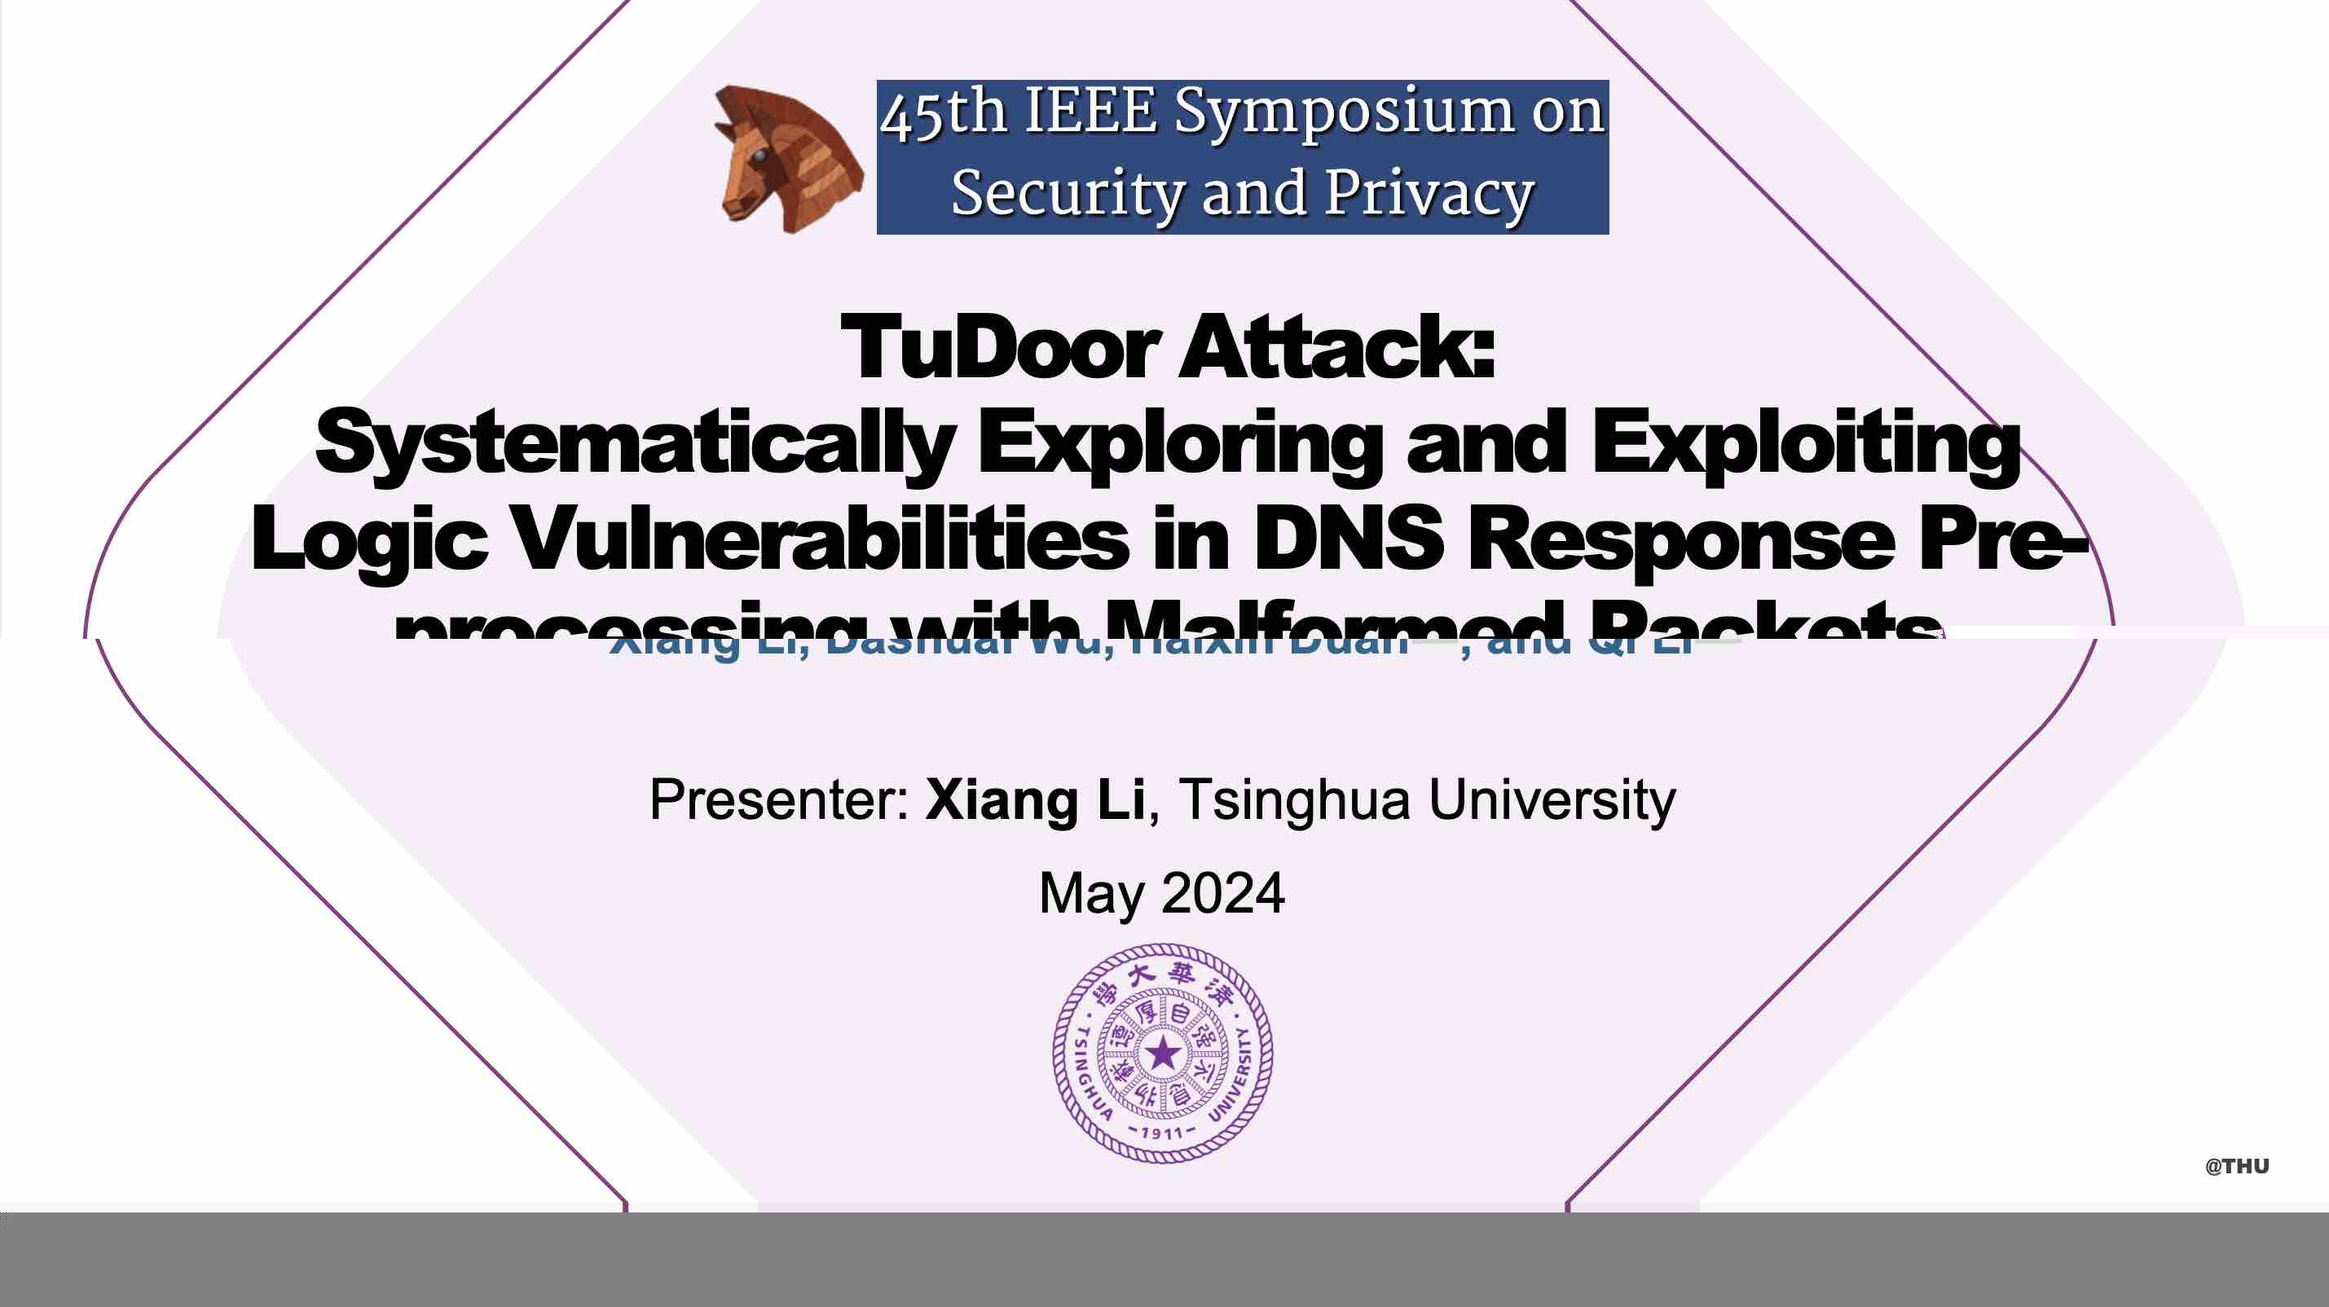
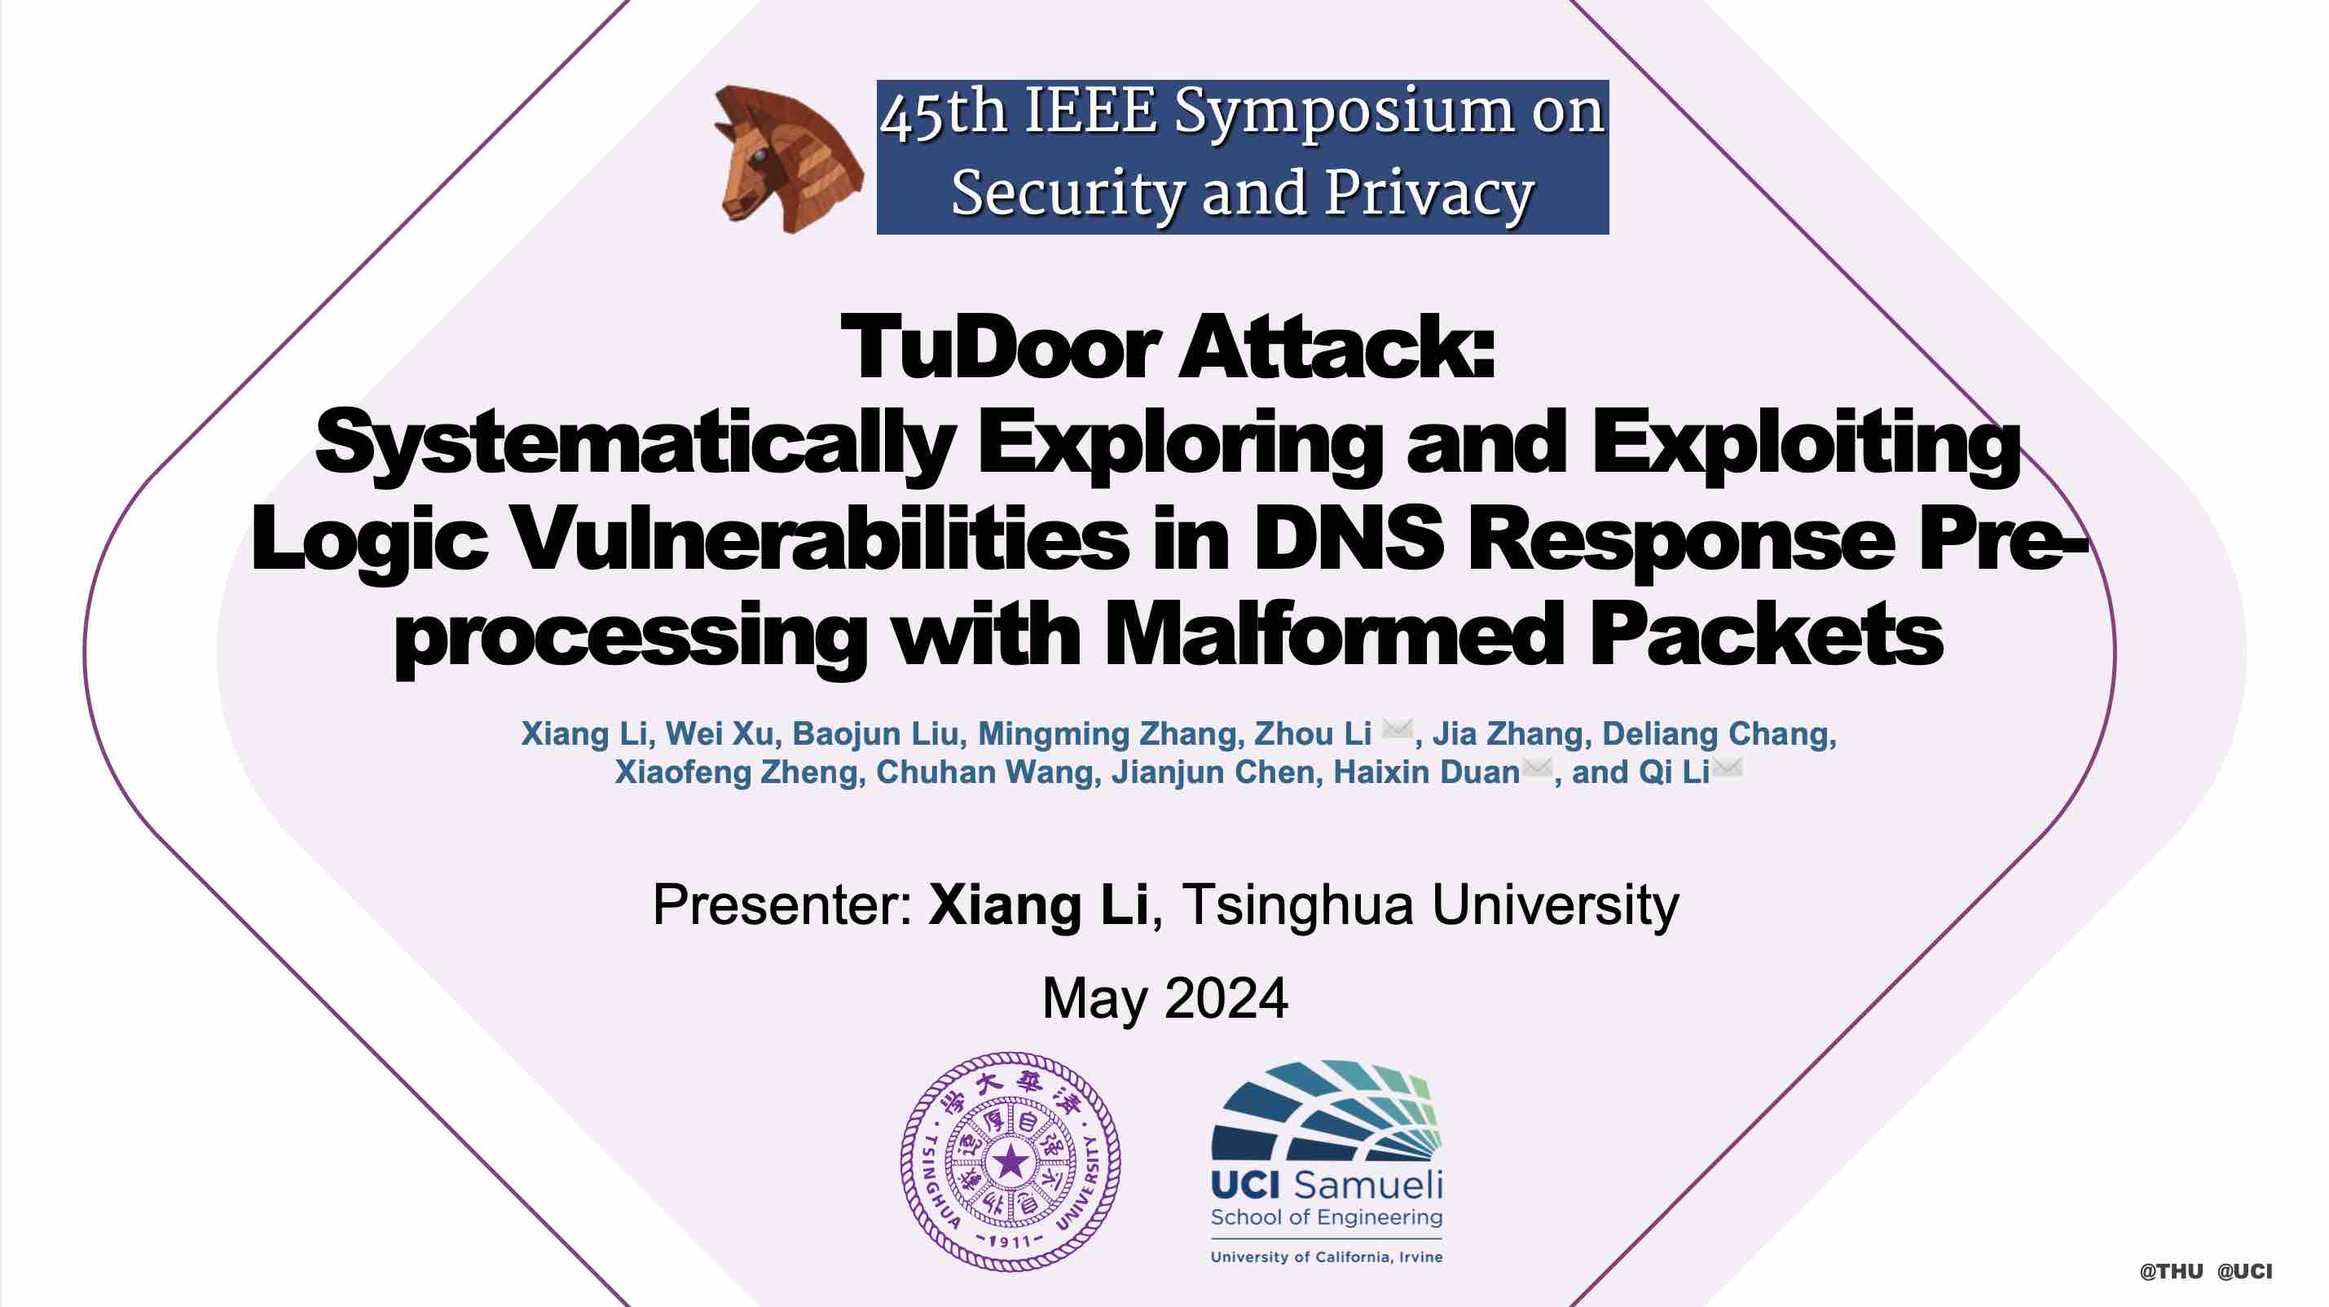
update bio

diff --git a/zh/talk/45th-ieee-symposium-on-security-and-privacy-2024-ieee-sp-2024/index.html b/zh/talk/45th-ieee-symposium-on-security-and-privacy-2024-ieee-sp-2024/index.html
@@ -272,7 +272,7 @@
 
   
 
-<meta name="description" content="在[45th IEEE Symposium on Security and Privacy 2024](https://sp2024.ieee-security.org/index.html)会议上，丰露代替我汇报了DNSBomb攻击。十分感谢！" />
+<meta name="description" content="在[45th IEEE Symposium on Security and Privacy 2024](https://sp2024.ieee-security.org/index.html)会议上，丰露代替我汇报了TuDoor攻击。十分感谢！" />
 
 
 
@@ -316,7 +316,7 @@
 <meta property="og:site_name" content="李想 | Xiang Li" />
 <meta property="og:url" content="https://lixiang521.com/zh/talk/45th-ieee-symposium-on-security-and-privacy-2024-ieee-sp-2024/" />
 <meta property="og:title" content="45th IEEE Symposium on Security and Privacy 2024 | IEEE S&amp;P 2024 | 李想 | Xiang Li" />
-<meta property="og:description" content="在[45th IEEE Symposium on Security and Privacy 2024](https://sp2024.ieee-security.org/index.html)会议上，丰露代替我汇报了DNSBomb攻击。十分感谢！" /><meta property="og:image" content="https://lixiang521.com/zh/talk/45th-ieee-symposium-on-security-and-privacy-2024-ieee-sp-2024/featured.jpg" /><meta property="og:locale" content="zh-Hans" />
+<meta property="og:description" content="在[45th IEEE Symposium on Security and Privacy 2024](https://sp2024.ieee-security.org/index.html)会议上，丰露代替我汇报了TuDoor攻击。十分感谢！" /><meta property="og:image" content="https://lixiang521.com/zh/talk/45th-ieee-symposium-on-security-and-privacy-2024-ieee-sp-2024/featured.jpg" /><meta property="og:locale" content="zh-Hans" />
 
   
     <meta
@@ -379,7 +379,7 @@
     "name": "Fenglu Zhang"
   },
   
-  "description": "在[45th IEEE Symposium on Security and Privacy 2024](https://sp2024.ieee-security.org/index.html)会议上，丰露代替我汇报了DNSBomb攻击。十分感谢！"
+  "description": "在[45th IEEE Symposium on Security and Privacy 2024](https://sp2024.ieee-security.org/index.html)会议上，丰露代替我汇报了TuDoor攻击。十分感谢！"
 }
 </script>
 
@@ -419,7 +419,7 @@
 </head>
 
 
-<body id="top" data-spy="scroll" data-offset="70" data-target="#TableOfContents" class="page-wrapper   " data-wc-page-id="06ce02b55c8dddf7d39f9a7a09b5051d" >
+<body id="top" data-spy="scroll" data-offset="70" data-target="#TableOfContents" class="page-wrapper   " data-wc-page-id="e05079f5c464b403ce018a56a32de18e" >
 
   
   
@@ -947,7 +947,7 @@
 
 
 
-<a class="btn btn-outline-primary btn-page-header" href="/publication/oakland24/sp24spring-dnsbomb-li.pdf" target="_blank" rel="noopener">
+<a class="btn btn-outline-primary btn-page-header" href="/publication/oakland24/sp24spring-tudoor-li.pdf" target="_blank" rel="noopener">
   PDF
 </a>
 
@@ -963,7 +963,7 @@
   
     
   
-<a class="btn btn-outline-primary btn-page-header" href="/publication/oakland24/sp2024-dnsbomb-poster.pdf" target="_blank" rel="noopener">
+<a class="btn btn-outline-primary btn-page-header" href="/publication/oakland24/sp2024-tudoor-poster.pdf" target="_blank" rel="noopener">
   海报
 </a>
 
@@ -973,7 +973,7 @@
   
     
   
-<a class="btn btn-outline-primary btn-page-header" href="/publication/oakland24/sp2024-dnsbomb-slides.pdf" target="_blank" rel="noopener">
+<a class="btn btn-outline-primary btn-page-header" href="/publication/oakland24/sp2024-tudoor-slides.pdf" target="_blank" rel="noopener">
   演示文稿
 </a>
 
@@ -1003,9 +1003,9 @@
 </div>
 
 
-<div class="article-header article-container featured-image-wrapper mt-4 mb-4" style="max-width: 720px; max-height: 405px;">
+<div class="article-header article-container featured-image-wrapper mt-4 mb-4" style="max-width: 720px; max-height: 404px;">
   <div style="position: relative">
-    <img src="/zh/talk/45th-ieee-symposium-on-security-and-privacy-2024-ieee-sp-2024/featured_huc82d7b839fc53b7a5c86bd3cdfedcac6_161243_720x2500_fit_q75_h2_lanczos.webp" width="720" height="405" alt="" class="featured-image">
+    <img src="/zh/talk/45th-ieee-symposium-on-security-and-privacy-2024-ieee-sp-2024/featured_huc82d7b839fc53b7a5c86bd3cdfedcac6_184831_720x2500_fit_q75_h2_lanczos.webp" width="720" height="404" alt="" class="featured-image">
     
   </div>
 </div>
@@ -1016,7 +1016,7 @@
 
     
       <h3>摘要</h3>
-      <p class="pub-abstract">DNS employs a variety of mechanisms to guarantee availability, protect security, and enhance reliability. In this paper, however, we reveal that these inherent beneficial mechanisms, including timeout, query aggregation, and response fast-returning, can be transformed into malicious attack vectors. We propose a new practical and powerful pulsing DoS attack, dubbed the DNSBomb attack. DNSBomb exploits multiple widely-implemented DNS mechanisms to accumulate DNS queries that are sent at a low rate, amplify queries into large-sized responses, and concentrate all DNS responses into a short, high-volume periodic pulsing burst to simultaneously overwhelm target systems. Through an extensive evaluation on 10 mainstream DNS software, 46 public DNS services, and around 1.8M open DNS resolvers, we demonstrate all DNS resolvers could be exploited to conduct more practical-and-powerful DNSBomb attacks than previous pulsing DoS atttacks. Small-scale experiments show the peak pulse magnitude can approach 8.7Gb/s and the bandwidth amplification factor could exceed 20,000x. Our controlled attacks cause complete packet loss or service degradation on both stateless and stateful connections (TCP, UDP, and QUIC). In addition, we present effective mitigation solutions with detailed evaluations. We have responsibly reported our findings to all affected vendors, and received acknowledgement from 24 of them, which are patching their software using our solutions, such as BIND, Unbound, PowerDNS, and Knot. 10 CVE-IDs are assigned.</p>
+      <p class="pub-abstract">DNS can be compared to a game of chess in that its rules are simple, yet the possibilities it presents are endless. While the fundamental rules of DNS are straightforward, DNS implementations can be extremely complex. In this study, we intend to explore the complexities and vulnerabilities in DNS response pre-processing by systematically analyzing DNS RFCs and DNS software implementations. We present the discovery of three new types of logic vulnerabilities, leading to the proposal of three novel attacks, namely the TuDoor attack. These attacks involve the use of malformed DNS response packets to carry out DNS cache poisoning, denial-of-service, and resource consuming attacks. By performing comprehensive experiments, we demonstrate the attack&rsquo;s feasibility and significant real-world impacts of TuDoor. In total, 24 mainstream DNS software, including BIND, PowerDNS, and Microsoft DNS, are affected by TuDoor. Attackers can instigate cache poisoning and denial-of-service attacks against vulnerable resolvers using a handful of crafted packets within 1 second or circumvent the query limit to deplete resolution resources (e.g., CPU). Besides, to determine the vulnerable resolver population in the wild, we collect and evaluate 16 popular Wi-Fi routers, 6 prevalent router OSes, 42 public DNS services, and around 1.8M open DNS resolvers. Our measurement results indicate that TuDoor could exploit 7 routers (OSes), 18 public DNS services, and 424,652 (23.1%) open DNS resolvers. Following the best practice of responsible disclosure, we have reported these vulnerabilities to all affected vendors, and 18 of them, including BIND, Chrome, Cloudflare, and Microsoft, have acknowledged our findings and discussed mitigation solutions with us. Furthermore, 33 CVE IDs are assigned to our discovered vulnerabilities, and we provide an online detection tool as one of the mitigation measures. Our research highlights the urgent need for standardization of DNS response pre-processing logic to enhance the security of DNS.</p>
     
 
     <div class="row">
@@ -1072,7 +1072,7 @@
     <div class="space-below"></div>
 
     <div class="article-style">
-      <p>在<a href="https://sp2024.ieee-security.org/index.html" target="_blank" rel="noopener">45th IEEE Symposium on Security and Privacy 2024</a>会议上，丰露代替我汇报了DNSBomb攻击。十分感谢！</p>
+      <p>在<a href="https://sp2024.ieee-security.org/index.html" target="_blank" rel="noopener">45th IEEE Symposium on Security and Privacy 2024</a>会议上，丰露代替我汇报了TuDoor攻击。十分感谢！</p>
 <h3 id="现场反馈">现场反馈</h3>
 <p>impressive! unbelievable! amazing!</p>
 
@@ -1444,40 +1444,6 @@
       </div>
       <div class="modal-footer">
         <a class="btn btn-outline-primary my-1 js-copy-cite" href="#" target="_blank">
-          <i class="fas fa-copy"></i> 复制
-        </a>
-        <a class="btn btn-outline-primary my-1 js-download-cite" href="#" target="_blank">
-          <i class="fas fa-download"></i> 下载
-        </a>
-        <div id="modal-error"></div>
-      </div>
-    </div>
-  </div>
-</div>
-
-
-  <script src="/js/wowchemy-publication.68f8d7090562ca65fc6d3cb3f8f2d2cb.js" type="module"></script>
-
-
-
-
-
-
-
-
-
-
-
-
-
-
-
-
-
-
-</body>
-</html>
-="btn btn-outline-primary my-1 js-copy-cite" href="#" target="_blank">
           <i class="fas fa-copy"></i> 复制
         </a>
         <a class="btn btn-outline-primary my-1 js-download-cite" href="#" target="_blank">

diff --git a/zh/index.html b/zh/index.html
@@ -1033,7 +1033,7 @@
     <h1>个人简介</h1>
 
     <div class="article-style">
-      <p>李想，<a href="https://www.nankai.edu.cn/" target="_blank" rel="noopener">南开大学</a><a href="https://cyber.nankai.edu.cn/" target="_blank" rel="noopener">网络空间安全学院</a>副教授。他于2024年在<a href="https://www.tsinghua.edu.cn/" target="_blank" rel="noopener">清华大学</a><a href="https://netsec.ccert.edu.cn" target="_blank" rel="noopener">网络与信息安全实验室 (NISL)</a>获得博士学位（导师为<a href="https://netsec.ccert.edu.cn/people/qli/" target="_blank" rel="noopener">李琦</a>副教授和<a href="https://netsec.ccert.edu.cn/people/duanhx/" target="_blank" rel="noopener">段海新</a>教授）。他曾经作为<a href="https://faculty.sites.uci.edu/zhouli/research/" target="_blank" rel="noopener">访问学者</a>在加州大学尔湾分校<a href="https://faculty.sites.uci.edu/zhouli/" target="_blank" rel="noopener">李洲助理教授</a>研究组进行学术交流。此外，他也是一款开源网络扫描器<a href="http://idealeer.github.io/project/xmap/" target="_blank" rel="noopener">XMap</a>的开发者与维护者（340+ GitHub stars）。同时，他也是DataCon专家委员会委员。研究领域涉及网络安全、协议安全、IPv6安全、DNS安全、互联网测量、网络协议fuzzing、网络漏洞挖掘与攻击以及黑灰产检测。目前已发表18篇学术论文。作为第一作者，他目前在网络安全四大顶级会议均有论文发表，涵盖Oakland S&amp;P（2）、USENIX Security（1）、CCS（1）、NDSS（1），以及其它安全会议如DSN。作为通讯作者和合作作者，他也在网络顶级会议发表多篇论文，如USENIX Security、CCS、NDSS、SIGMETRICS、IMC。此外，他在工业界顶级安全会议也进行过演讲，如Black Hat（Asia、USA、Europe）。他经常参加相关会议讨论分享最近的研究进展，如IDS、OARC、VehicleSec。他已申请专利11项，包括第一发明人授权专利1项及实质审查中5项。在漏洞挖掘领域，他目前已发现多个IPv6和DNS方向的新型重大漏洞并获得200+安全漏洞编号（CVE/CNVD/CNNVD），其中所发现的IPv6漏洞影响了数十家路由器厂商。他也发现了DNS协议设计和实现层面的漏洞，影响了所有DNS的软件和实现。目前他已经获得了多家知名互联网厂商的致谢和奖励（超过$11.6k），包括谷歌、微软、Cloudflare、Akamai等公司，奥地利政府CERT每日安全公告，瑞典政府CERT每周安全公告，伯恩茅斯大学CERT安全公告，100+科技媒体报道，并在积极推进网络协议标准的改进（相关工作已被纳入RFC文档）。他也获得了多个奖励荣誉，如IPv6创新大赛一等奖、GeekCon国际安全极客大赛亚军及非凡黑客荣誉称号、王大中奖学金、博士研究生国家奖学金、优秀毕业生、清华优秀奖学金等。</p>
+      <p>李想，<a href="https://www.nankai.edu.cn/" target="_blank" rel="noopener">南开大学</a><a href="https://cyber.nankai.edu.cn/" target="_blank" rel="noopener">网络空间安全学院</a>副教授。他于2024年在<a href="https://www.tsinghua.edu.cn/" target="_blank" rel="noopener">清华大学</a><a href="https://netsec.ccert.edu.cn" target="_blank" rel="noopener">网络与信息安全实验室（NISL）</a>获得博士学位（导师为<a href="https://netsec.ccert.edu.cn/people/qli/" target="_blank" rel="noopener">李琦</a>副教授和<a href="https://netsec.ccert.edu.cn/people/duanhx/" target="_blank" rel="noopener">段海新</a>教授）。他曾经作为<a href="https://faculty.sites.uci.edu/zhouli/research/" target="_blank" rel="noopener">访问学者</a>在加州大学尔湾分校<a href="https://faculty.sites.uci.edu/zhouli/" target="_blank" rel="noopener">李洲助理教授</a>研究组进行学术交流。此外，他也是一款开源网络扫描器<a href="http://idealeer.github.io/project/xmap/" target="_blank" rel="noopener">XMap</a>的开发者与维护者（340+ GitHub stars）。同时，他也是DataCon专家委员会委员。研究领域涉及网络安全、协议安全、IPv6安全、DNS安全、互联网测量、网络协议fuzzing、网络漏洞挖掘与攻击以及黑灰产检测。目前已发表18篇学术论文。作为第一作者，他目前在网络安全四大顶级会议均有论文发表，涵盖Oakland S&amp;P（2）、USENIX Security（1）、CCS（1）、NDSS（1），以及其它安全会议如DSN。作为通讯作者和合作作者，他也在网络顶级会议发表多篇论文，如USENIX Security、CCS、NDSS、SIGMETRICS、IMC。此外，他在工业界顶级安全会议也进行过演讲，如Black Hat（Asia、USA、Europe）。他经常参加相关会议讨论分享最近的研究进展，如IDS、OARC、VehicleSec。他已申请专利11项，包括第一发明人授权专利1项及实质审查中5项。在漏洞挖掘领域，他目前已发现多个IPv6和DNS方向的新型重大漏洞并获得200+安全漏洞编号（CVE/CNVD/CNNVD），其中所发现的IPv6漏洞影响了数十家路由器厂商。他也发现了DNS协议设计和实现层面的漏洞，影响了所有DNS的软件和实现。目前他已经获得了多家知名互联网厂商的致谢和奖励（超过$11.6k），包括谷歌、微软、Cloudflare、Akamai等公司，奥地利政府CERT每日安全公告，瑞典政府CERT每周安全公告，伯恩茅斯大学CERT安全公告，100+科技媒体报道，并在积极推进网络协议标准的改进（相关工作已被纳入RFC文档）。他也获得了多个奖励荣誉，如IPv6创新大赛一等奖、GeekCon国际安全极客大赛亚军及非凡黑客荣誉称号、王大中奖学金、博士研究生国家奖学金、优秀毕业生、清华优秀奖学金等。</p>
 <h2 id="最近动态"><strong>最近动态</strong></h2>
 <ul>
 <li>[07/2024](活动) 加入母校南开大学，作为副教授。新征程开启！</li>
